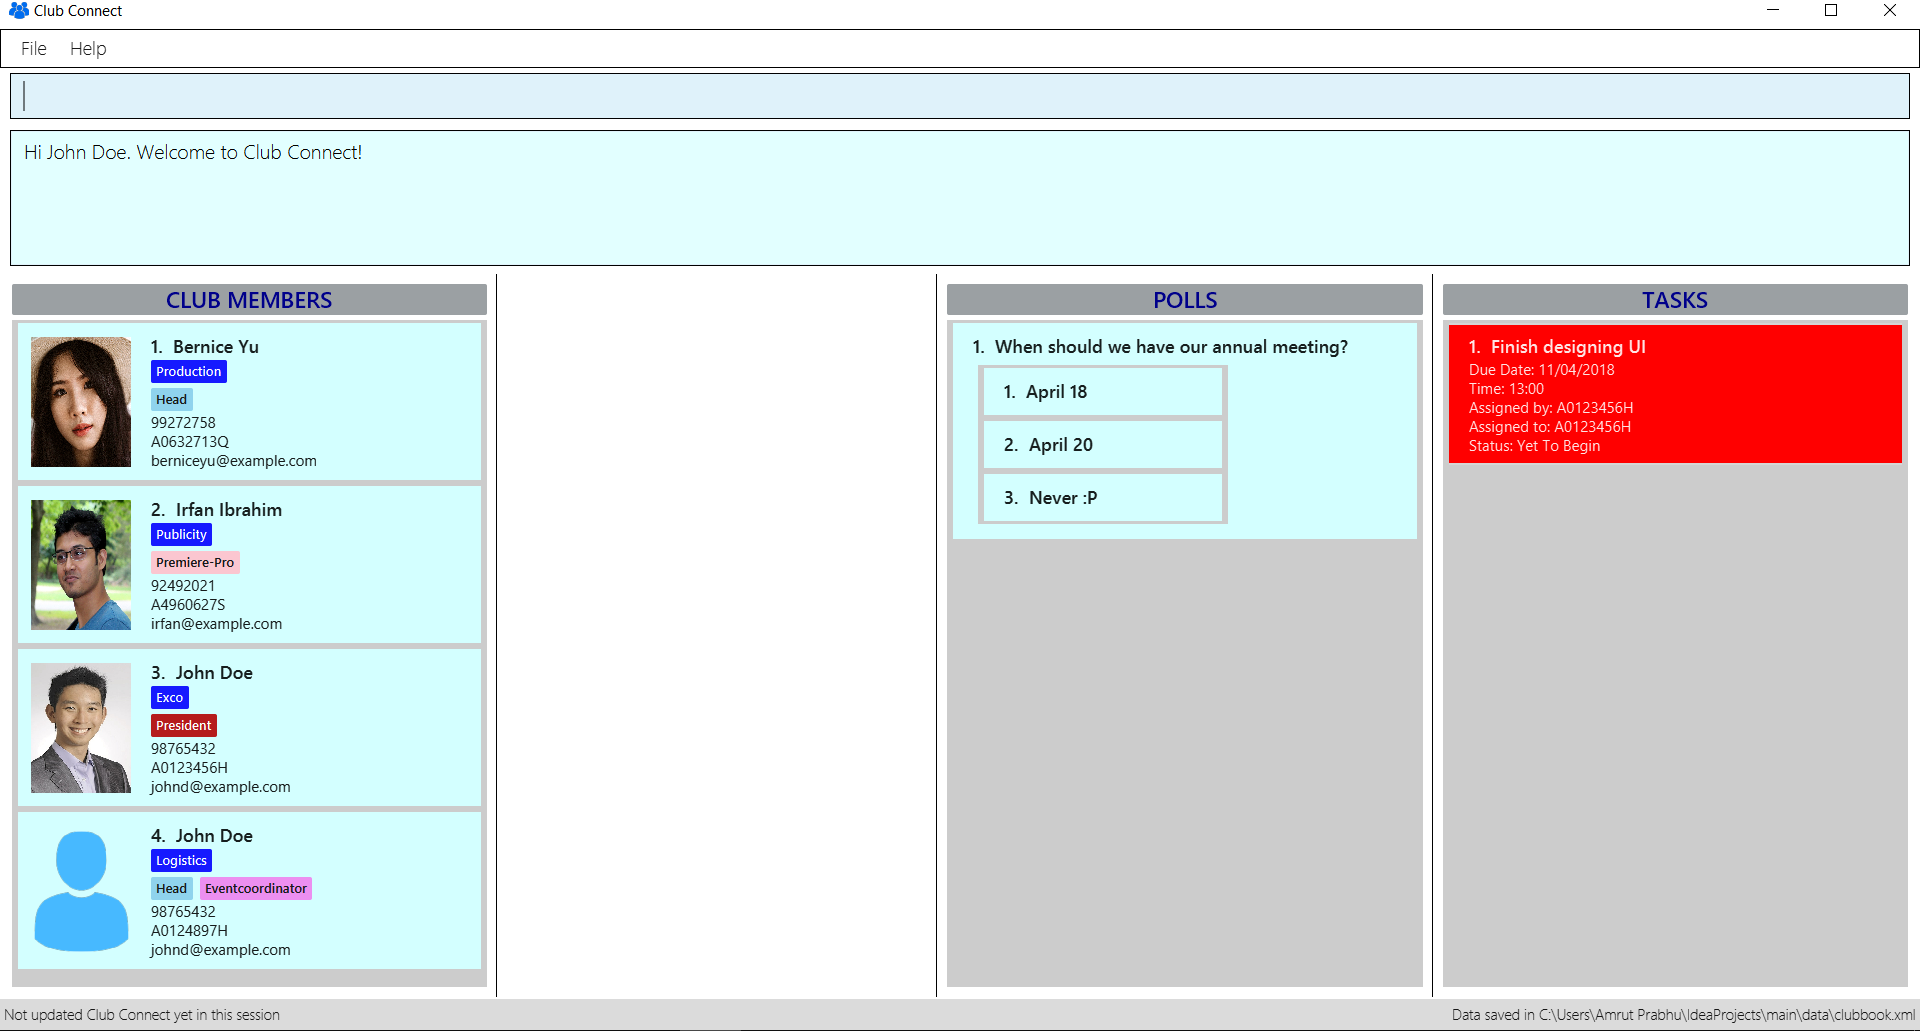
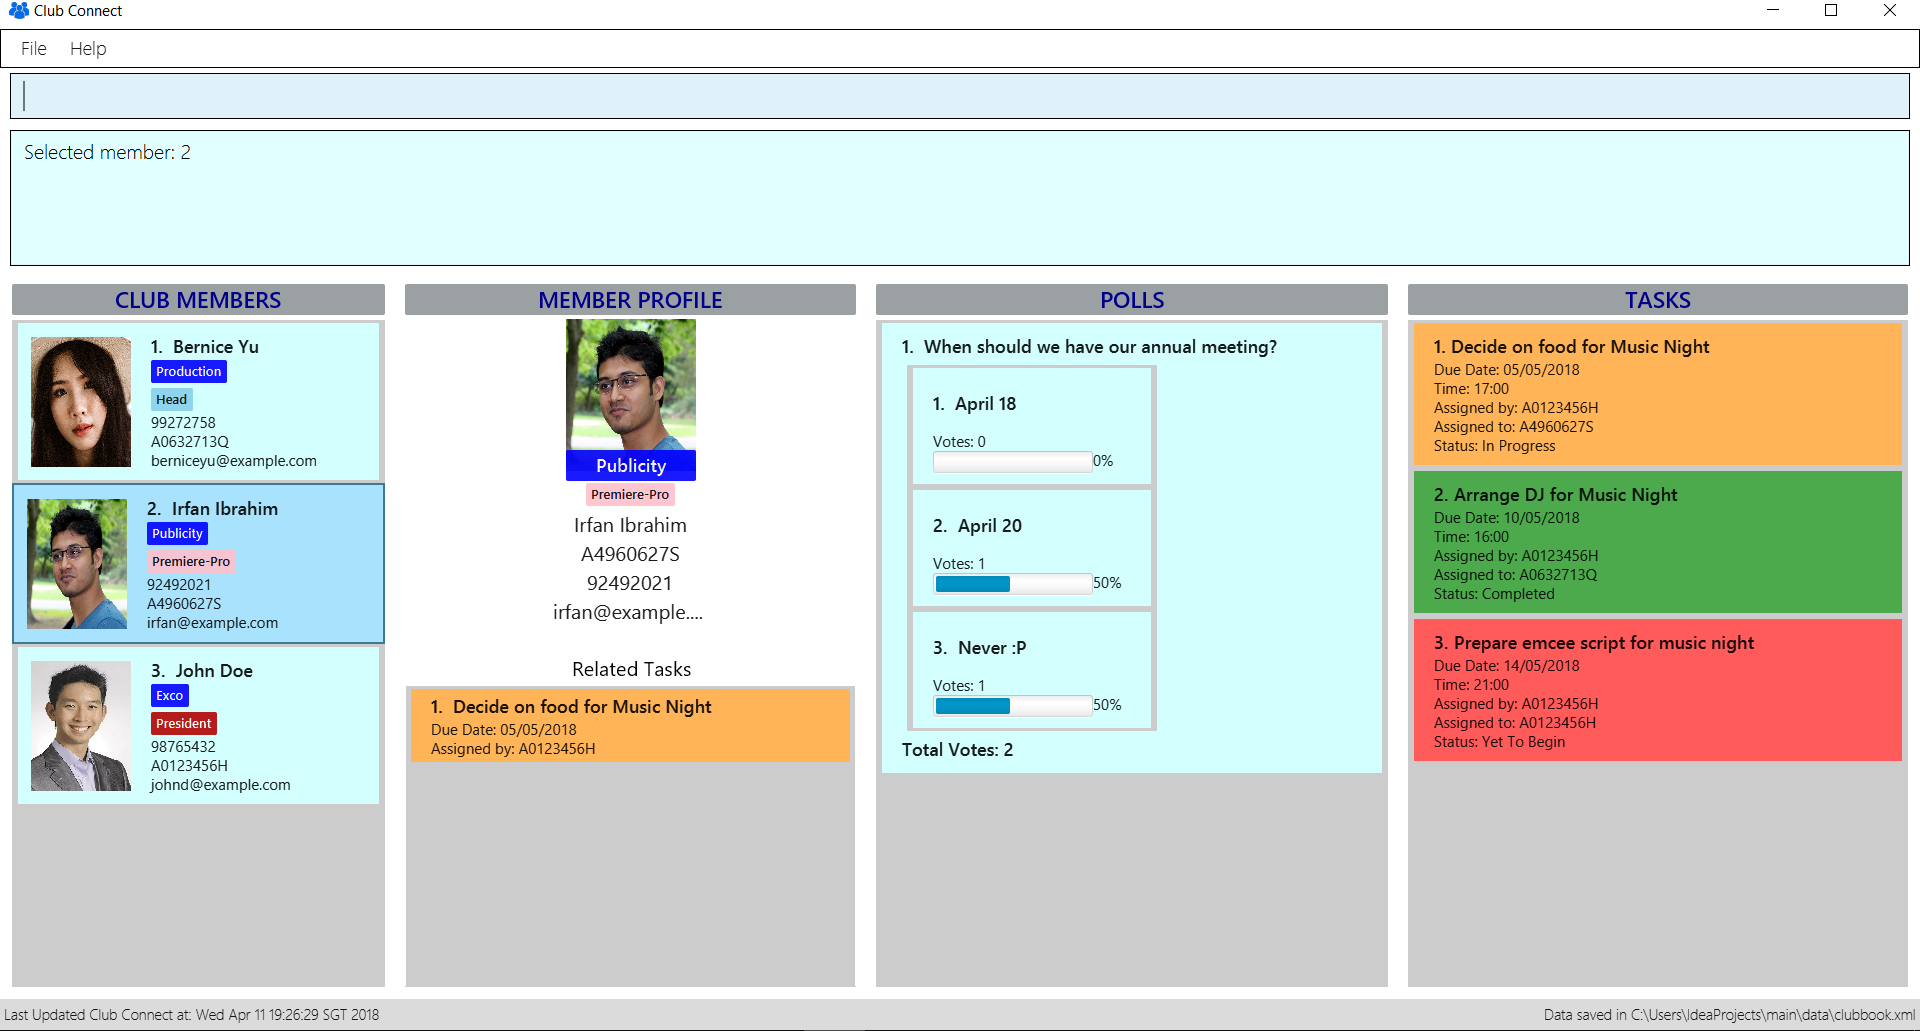
Update Task UI (colours, fixed deletetask UI bug) Add Member Profile header to panel

diff --git a/src/main/resources/view/LightTheme.css b/src/main/resources/view/LightTheme.css
@@ -146,7 +146,7 @@
 .cell_big_label {
     -fx-font-family: "Segoe UI Semibold";
     -fx-font-size: 18px;
-    -fx-text-fill: #010504;
+    -fx-text-fill: #000000;
 }
 
 .cell_small_label {
@@ -244,10 +244,10 @@
  */
 .button {
     -fx-padding: 5 10 5 10;
-    -fx-border-color: #e2e2e2;
-    -fx-border-width: 2;
+    -fx-border-color: black;
+    -fx-border-width: 1;
     -fx-background-radius: 0;
-    -fx-background-color: red;
+    -fx-background-color: white;
     -fx-font-family: "Segoe UI", Helvetica, Arial, sans-serif;
     -fx-font-size: 11pt;
     -fx-text-fill: #d8d8d8;
@@ -255,17 +255,17 @@
 }
 
 .button:hover {
-    -fx-background-color: red;
+    -fx-background-color: derive(skyblue, 50%);
 }
 
 .button:pressed, .button:default:hover:pressed {
-  -fx-background-color: green;
+  -fx-background-color: derive(skyblue,20%);
   -fx-text-fill: #1d1d1d;
 }
 
 .button:focused {
-    -fx-border-color: white, white;
-    -fx-border-width: 1, 1;
+    -fx-border-color: black;
+    -fx-border-width: 1, 1, 1, 1;
     -fx-border-style: solid, segments(1, 1);
     -fx-border-radius: 0, 0;
     -fx-border-insets: 1 1 1 1, 0;
@@ -273,25 +273,26 @@
 
 .button:disabled, .button:default:disabled {
     -fx-opacity: 0.4;
-    -fx-background-color: green;
+    -fx-background-color: derive(skyblue,20%);
     -fx-text-fill: black;
 }
 
 .button:default {
-    -fx-background-color: black;
+    -fx-background-color: white;
     -fx-text-fill: #000000;
+    -fx-border-width: 1;
 }
 
 .button:default:hover {
-    -fx-background-color: derive(brown, 30%);
+    -fx-background-color: derive(skyblue, 50%);
 }
 
 .dialog-pane {
-    -fx-background-color: green;
+    -fx-background-color: white;
 }
 
 .dialog-pane > *.button-bar > *.container {
-    -fx-background-color: green;
+    -fx-background-color: white;
 }
 
 .dialog-pane > *.label.content {
@@ -301,7 +302,7 @@
 }
 
 .dialog-pane:header *.header-panel {
-    -fx-background-color: derive(green, 25%);
+    -fx-background-color: derive(grey, 40%);
 }
 
 .dialog-pane:header *.header-panel *.label {

diff --git a/src/main/resources/view/TaskInProgress.css b/src/main/resources/view/TaskInProgress.css
@@ -5,28 +5,27 @@
     -fx-background-radius: 0 0 0 0;
     -fx-border-radius: 0 0 0 0;
     -fx-padding: 0px;
-    -fx-background-insets: 5px, 5px;
-    -fx-background-color: transparent, -fx-background;
+    -fx-background-color: cccccc;
 }
 
 .list-cell:filled:even {
-    -fx-background-color: derive(#ff8c00, 0%);
+    -fx-background-color: derive(#ff9711, 30%);
 }
 
 .list-cell:filled:odd {
-    -fx-background-color: derive(#ff8c00, 0%);
+    -fx-background-color: derive(#ff9711, 30%);
 }
 
 .list-cell:filled:selected {
-    -fx-background-color: derive(#ff8c00, +40%);
+    -fx-background-color: derive(#ffae00, +40%);
 }
 
 .list-cell:filled:selected #cardPane {
-    -fx-border-color: derive(#ff8c00, +80%);
+    -fx-border-color: derive(#ffae00, +80%);
     -fx-border-width: 3;
     -fx-border-radius: 0 0 0 0;
 }
 
 .list-cell .label {
-    -fx-text-fill: white;
+    -fx-text-fill: black;
 }

diff --git a/src/main/resources/view/TaskYetToBegin.css b/src/main/resources/view/TaskYetToBegin.css
@@ -5,16 +5,15 @@
     -fx-background-radius: 0 0 0 0;
     -fx-border-radius: 0 0 0 0;
     -fx-padding: 0px;
-    -fx-background-insets: 5px, 5px;
-    -fx-background-color: transparent, -fx-background;
+    -fx-background-color: cccccc;
 }
 
 .list-cell:filled:even {
-    -fx-background-color: derive(#ff0000, 0%);
+    -fx-background-color: derive(#ff0000, 60%);
 }
 
 .list-cell:filled:odd {
-    -fx-background-color: derive(#ff0000, 0%);
+    -fx-background-color: derive(#ff0000, 60%);
 }
 
 .list-cell:filled:selected {
@@ -23,10 +22,10 @@
 
 .list-cell:filled:selected #cardPane {
     -fx-border-color: derive(#ff0000, +80%);
-    -fx-border-width: 3;
+    -fx-border-width: 0;
     -fx-border-radius: 0 0 0 0;
 }
 
 .list-cell .label {
-    -fx-text-fill: white;
+    -fx-text-fill: black;
 }

diff --git a/src/main/resources/view/TaskCompleted.css b/src/main/resources/view/TaskCompleted.css
@@ -5,16 +5,15 @@
     -fx-background-radius: 0 0 0 0;
     -fx-border-radius: 0 0 0 0;
     -fx-padding: 0px;
-    -fx-background-insets:5px, 5px;
-    -fx-background-color: transparent, -fx-background;
+    -fx-background-color: cccccc;
 }
 
 .list-cell:filled:even {
-    -fx-background-color: derive(#006400, 0%);
+    -fx-background-color: derive(#006400, 75%);
 }
 
 .list-cell:filled:odd {
-    -fx-background-color: derive(#006400, 0%);
+    -fx-background-color: derive(#006400, 75%);
 }
 
 .list-cell:filled:selected {
@@ -28,5 +27,5 @@
 }
 
 .list-cell .label {
-    -fx-text-fill: white;
+    -fx-text-fill: black;
 }

diff --git a/src/main/resources/view/default.html b/src/main/resources/view/default.html
@@ -1,7 +1,7 @@
 <!DOCTYPE html>
 <html>
 <head>
-    <link rel="stylesheet" href="DarkTheme.css">
+    <link rel="stylesheet" href="LightTheme.css">
 </head>
 
 <body class="background">

diff --git a/src/main/java/seedu/club/ui/UiManager.java b/src/main/java/seedu/club/ui/UiManager.java
@@ -91,7 +91,7 @@ public class UiManager extends ComponentManager implements Ui {
     private static void showAlertDialogAndWait(Stage owner, AlertType type, String title, String headerText,
                                                String contentText) {
         final Alert alert = new Alert(type);
-        alert.getDialogPane().getStylesheets().add("view/DarkTheme.css");
+        alert.getDialogPane().getStylesheets().add("view/LightTheme.css");
         alert.initOwner(owner);
         alert.setTitle(title);
         alert.setHeaderText(headerText);

diff --git a/src/main/java/seedu/club/model/task/Description.java b/src/main/java/seedu/club/model/task/Description.java
@@ -11,7 +11,7 @@ import static seedu.club.commons.util.AppUtil.checkArgument;
 public class Description {
 
     public static final String DESCRIPTION_VALIDATION_REGEX = "[\\p{Alnum}][\\p{Alnum} ]*";
-    public static final String MESSAGE_DESCRIPTION_CONSTRAINTS = "Description should a non-empty alphanumeric string";
+    public static final String MESSAGE_DESCRIPTION_CONSTRAINTS = "Description should a non-empty alphanumeric string.";
     public final String description;
 
     public Description(String description) {

diff --git a/src/main/java/seedu/club/model/task/Status.java b/src/main/java/seedu/club/model/task/Status.java
@@ -10,7 +10,7 @@ public class Status {
     public static final String NOT_STARTED_STATUS = "Yet To Begin";
     public static final String IN_PROGRESS_STATUS = "In Progress";
     public static final String COMPLETED_STATUS = "Completed";
-    public static final String MESSAGE_INVALID_STATUS = "Invalid status entered!";
+    public static final String MESSAGE_INVALID_STATUS = "Invalid task status value entered.";
 
     private String status;
 

diff --git a/src/test/java/seedu/club/ui/testutil/UiPartRule.java b/src/test/java/seedu/club/ui/testutil/UiPartRule.java
@@ -12,7 +12,7 @@ import seedu.club.ui.UiPart;
  * Provides an isolated stage to test an individual {@code UiPart}.
  */
 public class UiPartRule extends StageRule {
-    private static final String[] CSS_FILES = {"view/DarkTheme.css", "view/Extensions.css"};
+    private static final String[] CSS_FILES = {"view/LightTheme.css", "view/Extensions.css"};
 
     public void setUiPart(final UiPart<? extends Parent> uiPart) {
         try {
